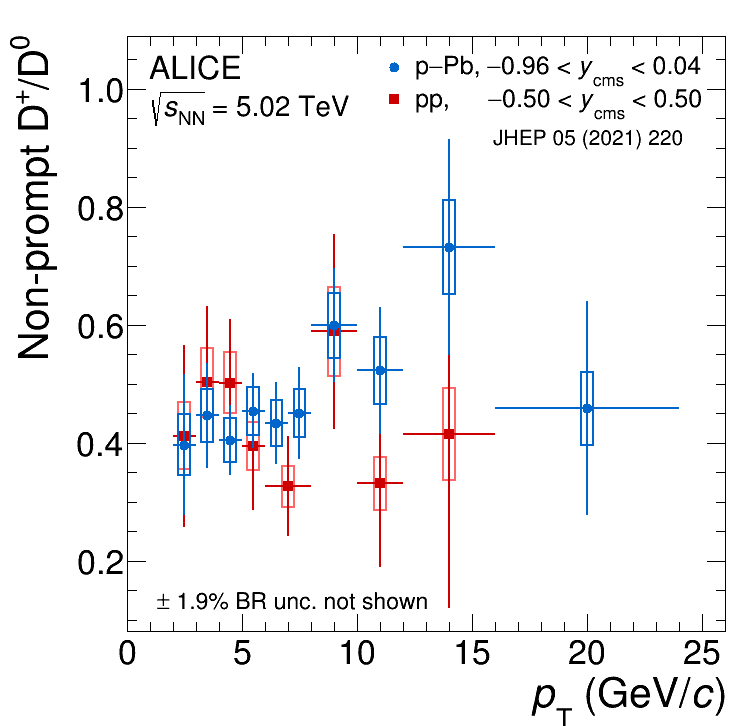
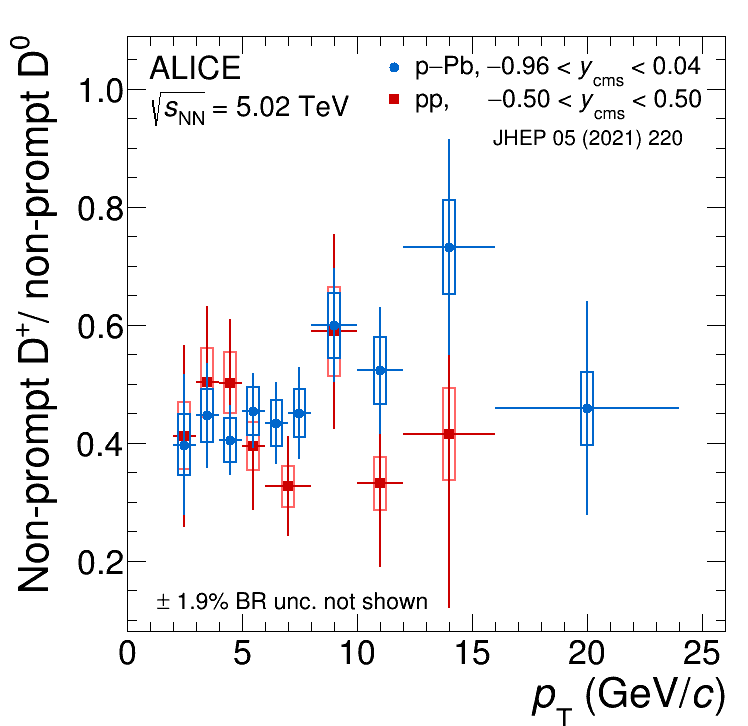
Modify y axis of non-prompt D+ / non-prompt D0 plot

Changed region(s): [[0.0, 0.0606, 0.0922, 0.8182]]

diff --git a/Plots/DrawDplusD0RatioPPVsPPb.C b/Plots/DrawDplusD0RatioPPVsPPb.C
@@ -121,7 +121,7 @@ void DrawDplusD0RatioPPVsPPb() {
   TH1D *hrefPrompt =
       new TH1D("hrefPrompt", "hrefPrompt", nptlimsExtra, ptlimsExtral);
   hrefPrompt->SetTitle("");
-  hrefPrompt->GetYaxis()->SetTitle("Non-prompt D^{+}/D^{0}");
+  hrefPrompt->GetYaxis()->SetTitle("Non-prompt D^{+}/ non-prompt D^{0}");
   hrefPrompt->GetXaxis()->SetTitle("#it{p}_{T} (GeV/#it{c})");
   hrefPrompt->SetMinimum(0.081);
   hrefPrompt->SetMaximum(1.09);
